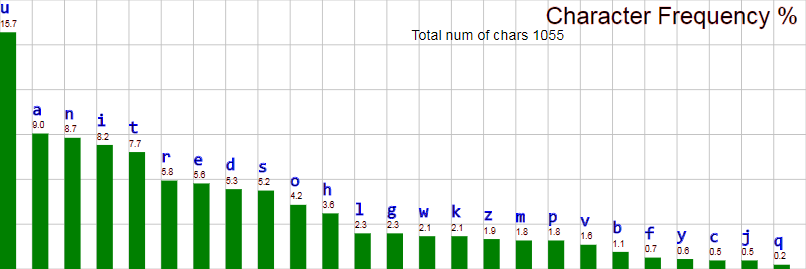
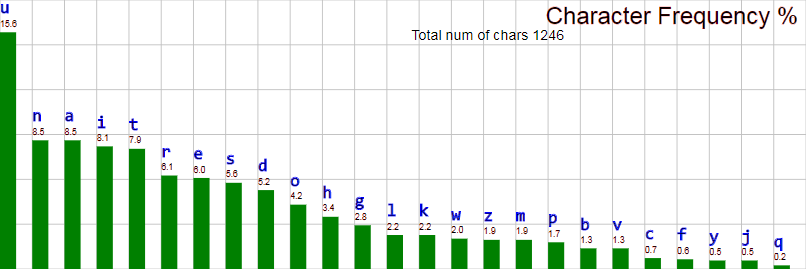
up to 1:40

diff --git a/better_english.html b/better_english.html
@@ -22,6 +22,14 @@
 	background-color:#cec;
 	border:1px solid green;
 }
+.red td{
+	background-color:#ecc;
+	color:red;
+}
+.green td{
+	background-color:#cec;
+	color:green;
+}
 </style>
 <title>Better English</title>
 <div id="nav"></div>
@@ -176,6 +184,14 @@
 	1:17 Som u dhum iivun dobuld op. 
 	1:19 Greet nuuz! Dh'ulektraanz'uv nau djoind in. 
 	1:21 Kungradjuleecunz! Dhu wurld uz nau u bonc uv gas un spees. 
+	1:24 But is geting kloosur tugedhur. 
+	1:26 Un is geting kloosur tugedhur. 
+	1:28 Un is geting kloosur tugedhur. 
+	1:29 Is u star. 
+	1:32 Nuu cit djus gaat meed. 
+	1:33 Som starz burn aut un dai. 
+	1:34 Bigur starz burn aut un dai with pacun, un meek sum brand nuu, we kreezi-ur cit. 
+	1:39 Spees dost!. 
 </p>
 <h3 id='Genesis'>Genesis</h2>
 <p>
@@ -187,5 +203,170 @@
 	5 Gaad kaald dhu lait "de," un dhu darknus hi kaald "nait." 
 	Un dher wuz iivnun, un dher wuz mornun - dhu furst de.
 </p>
+<h2 id='Stats'>Stats</h2>
+<table>
+	<tr>
+		<th>Letter</th>
+		<th>en_us%</th>
+		<th>&Delta;</th>
+		<th>en_m%</th>
+	</tr>
+	<tr class='green'>
+		<td>a</td>
+		<td>8.169%</td>
+		<td>&#x25B2;4%</td>
+		<td>8.5%</td>
+	</tr>
+	<tr class='red'>
+		<td>b</td>
+		<td>1.492%</td>
+		<td>&#x25BC;20%</td>
+		<td>1.2%</td>
+	</tr>
+	<tr class='red'>
+		<td>c</td>
+		<td>2.782%</td>
+		<td>&#x25BC;82%</td>
+		<td>0.5%</td>
+	</tr>
+	<tr class='green'>
+		<td>d</td>
+		<td>4.253%</td>
+		<td>&#x25B2;53%</td>
+		<td>6.5%</td>
+	</tr>
+	<tr class='red'>
+		<td>e</td>
+		<td>12.702%</td>
+		<td>&#x25BC;54%</td>
+		<td>5.8%</td>
+	</tr>
+	<tr class='red'>
+		<td>f</td>
+		<td>2.228%</td>
+		<td>&#x25BC;69%</td>
+		<td>0.7%</td>
+	</tr>
+	<tr class='green'>
+		<td>g</td>
+		<td>2.015%</td>
+		<td>&#x25B2;39%</td>
+		<td>2.8%</td>
+	</tr>
+	<tr class='red'>
+		<td>h</td>
+		<td>6.094%</td>
+		<td>&#x25BC;29%</td>
+		<td>4.3%</td>
+	</tr>
+	<tr class='green'>
+		<td>i</td>
+		<td>6.966%</td>
+		<td>&#x25B2;9%</td>
+		<td>7.6%</td>
+	</tr>
+	<tr class='green'>
+		<td>j</td>
+		<td>0.153%</td>
+		<td>&#x25B2;161%</td>
+		<td>0.4%</td>
+	</tr>
+	<tr class='green'>
+		<td>k</td>
+		<td>0.772%</td>
+		<td>&#x25B2;172%</td>
+		<td>2.1%</td>
+	</tr>
+	<tr class='red'>
+		<td>l</td>
+		<td>4.025%</td>
+		<td>&#x25BC;43%</td>
+		<td>2.3%</td>
+	</tr>
+	<tr class='red'>
+		<td>m</td>
+		<td>2.406%</td>
+		<td>&#x25BC;29%</td>
+		<td>1.7%</td>
+	</tr>
+	<tr class='green'>
+		<td>n</td>
+		<td>6.749%</td>
+		<td>&#x25B2;21%</td>
+		<td>8.2%</td>
+	</tr>
+	<tr class='red'>
+		<td>o</td>
+		<td>7.507%</td>
+		<td>&#x25BC;49%</td>
+		<td>3.8%</td>
+	</tr>
+	<tr class='red'>
+		<td>p</td>
+		<td>1.929%</td>
+		<td>&#x25BC;17%</td>
+		<td>1.6%</td>
+	</tr>
+	<tr class='green'>
+		<td>q</td>
+		<td>0.095%</td>
+		<td>&#x25B2;5%</td>
+		<td>0.1%</td>
+	</tr>
+	<tr class='green'>
+		<td>r</td>
+		<td>5.987%</td>
+		<td>&#x25B2;4%</td>
+		<td>6.2%</td>
+	</tr>
+	<tr class='red'>
+		<td>s</td>
+		<td>6.327%</td>
+		<td>&#x25BC;18%</td>
+		<td>5.2%</td>
+	</tr>
+	<tr class='red'>
+		<td>t</td>
+		<td>9.056%</td>
+		<td>&#x25BC;20%</td>
+		<td>7.2%</td>
+	</tr>
+	<tr class='green'>
+		<td>u</td>
+		<td>2.758%</td>
+		<td>&#x25B2;480%</td>
+		<td>16.0%</td>
+	</tr>
+	<tr class='green'>
+		<td>v</td>
+		<td>0.978%</td>
+		<td>&#x25B2;43%</td>
+		<td>1.4%</td>
+	</tr>
+	<tr class='red'>
+		<td>w</td>
+		<td>2.360%</td>
+		<td>&#x25BC;11%</td>
+		<td>2.1%</td>
+	</tr>
+	<tr class='red'>
+		<td>x</td>
+		<td>0.978%</td>
+		<td>&#x25BC;100%</td>
+		<td>0.0%</td>
+	</tr>
+	<tr class='red'>
+		<td>y</td>
+		<td>0.978%</td>
+		<td>&#x25BC;59%</td>
+		<td>0.4%</td>
+	</tr>
+	<tr class='green'>
+		<td>z</td>
+		<td>0.978%</td>
+		<td>&#x25B2;115%</td>
+		<td>2.1%</td>
+	</tr>
+</table>
 <div id="bottom"></div>
 </html>
